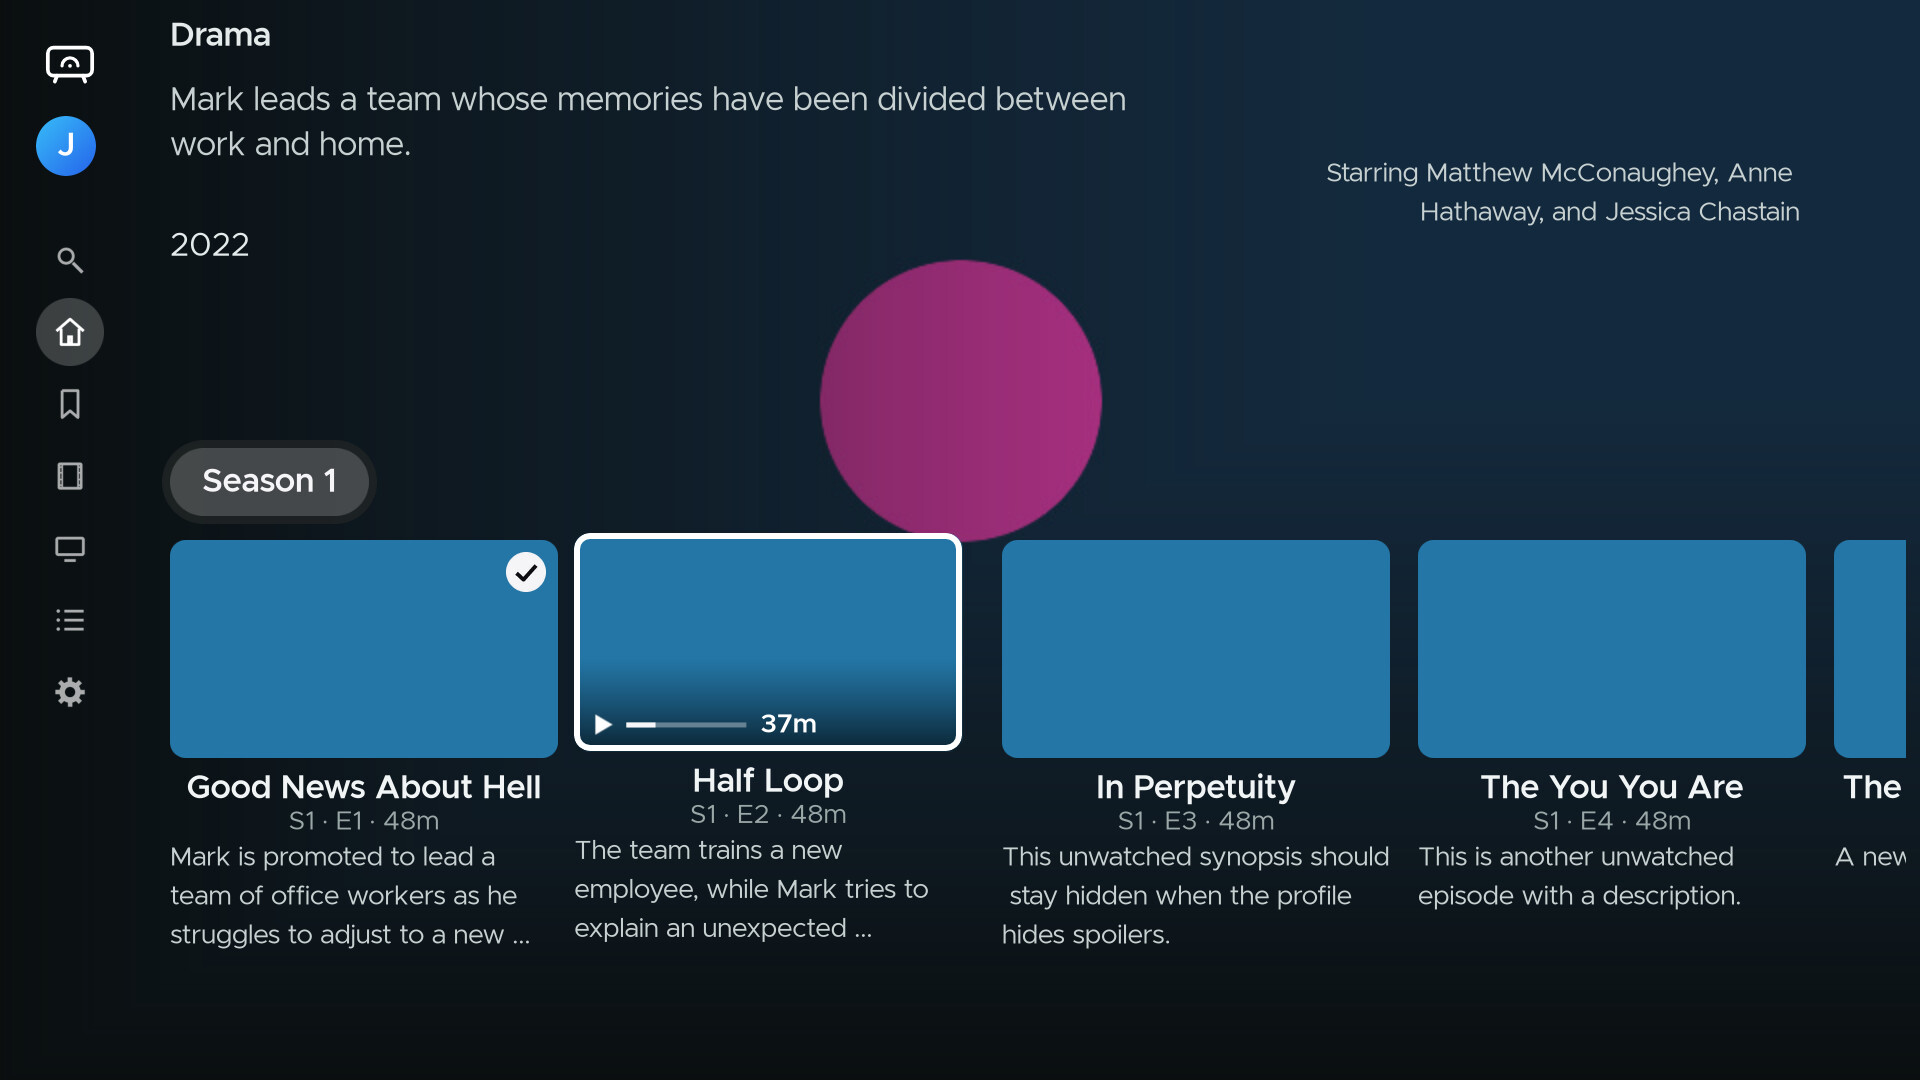
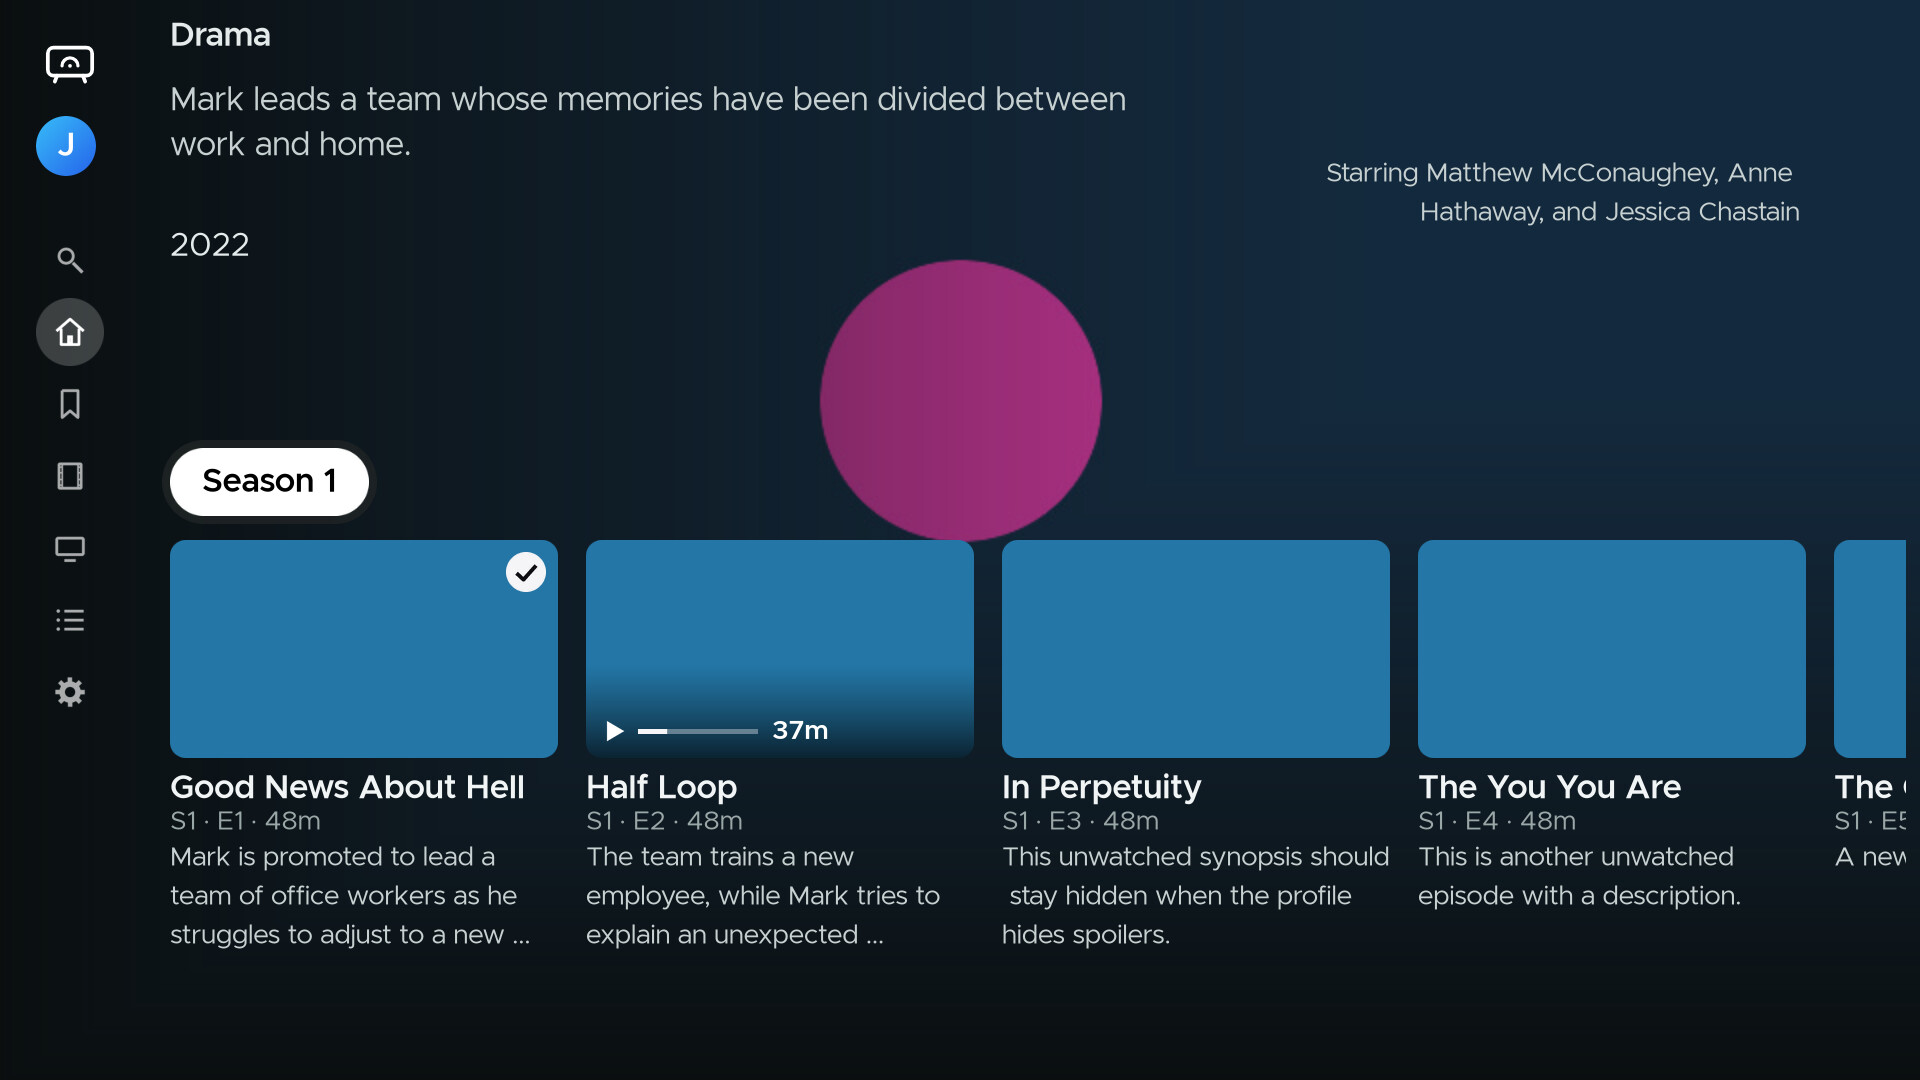
Align Roku episode captions with the thumbnail edge
Left-align series episode titles and metadata with their descriptions and artwork.

diff --git a/docs/changes/2026-11-26-roku-layout-followup.md b/docs/changes/2026-11-26-roku-layout-followup.md
@@ -5,7 +5,8 @@
 - Lower the series overview so the season bar is fully visible at the bottom. Down
   frames the season bar and episodes before revealing cast. Returning Up restores
   the same overview position. The episode shelf shows four full cards and a
-  sliver of the fifth, following Android TV.
+  sliver of the fifth. Episode numbers, titles and descriptions line up with
+  the thumbnail’s left edge, following Android TV.
 - Centre-crop cast portraits without stretching them. Keep the focus ring inside
   the portrait and bring names into view when the cast shelf takes focus.
 - Preserve the source aspect ratio in the 4:3 Backdrops style, with a centred crop.
